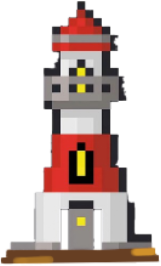
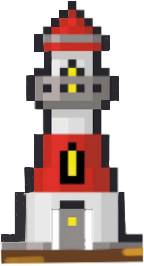
transparency

diff --git a/frontend/src/OceanApp.tsx b/frontend/src/OceanApp.tsx
@@ -463,7 +463,7 @@ useEffect(() => {
             padding: "0.75rem 1.5rem",
             zIndex: 15,
             color: "white",
-            background: "black",
+            background: "rgba(0, 0, 0, 0.8)",
             border: "4px solid #fff",
             boxShadow: "0 0 0 4px #000",
             fontFamily: "'Press Start 2P', cursive",
@@ -491,7 +491,7 @@ useEffect(() => {
           top: "20px",
           left: "20px",
           padding: "0.5rem 1rem",
-          background: "black",
+          background: "rgba(0, 0, 0, 0.8)",
           border: "4px solid #fff",
           boxShadow: "0 0 0 4px #000",
           color: "white",
@@ -683,7 +683,7 @@ useEffect(() => {
             src={lighthouseUrl}
             alt="Lighthouse"
             style={{
-              width: "50px",
+              width: "80px",
               imageRendering: "pixelated",
               pointerEvents: "none",
               filter: "drop-shadow(0 0 10px rgba(255, 215, 0, 0.5))",
